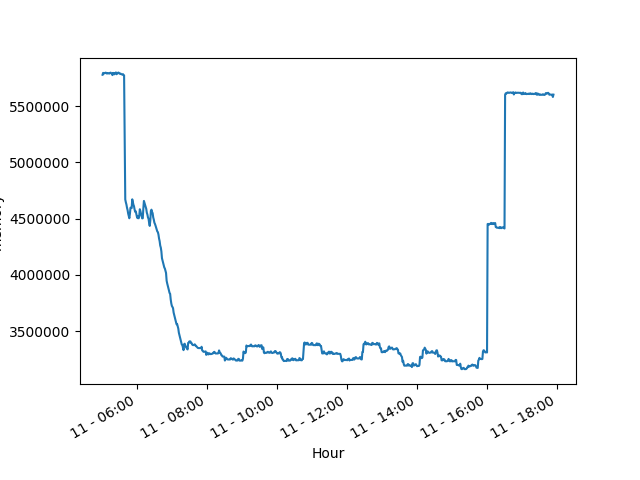
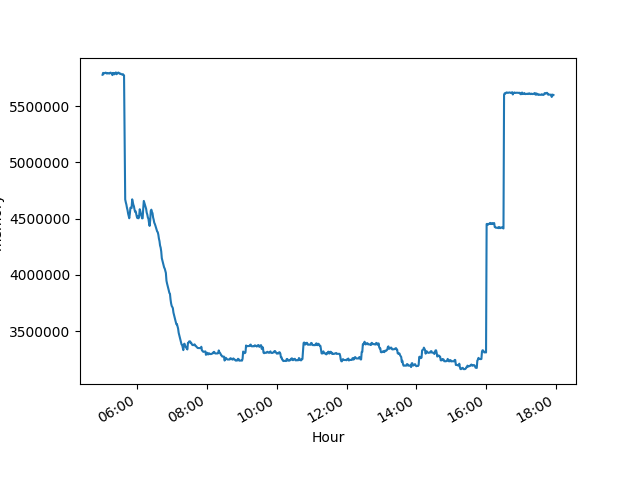
removed unnecessary date

diff --git a/src/get_summaries.py b/src/get_summaries.py
@@ -57,7 +57,7 @@ def main():
 	for host in hosts:
 		all_data = get_data(host)
 		times  = [data[1] for data in all_data[types[0]]]  
-	
+		
 		for t in types:
 			metric = [data[3] for data in all_data[t]]
 
@@ -67,7 +67,7 @@ def main():
 			plt.ylabel(t)
 			plt.xlabel("Hour")
 			plt.plot(times, metric)
-			xfmt = mdates.DateFormatter('%d - %H:%M')
+			xfmt = mdates.DateFormatter('%H:%M')
 			ax.xaxis.set_major_formatter(xfmt)
 			plt.savefig(host + '_' + t + '.png')
 			plt.gcf().clear()
